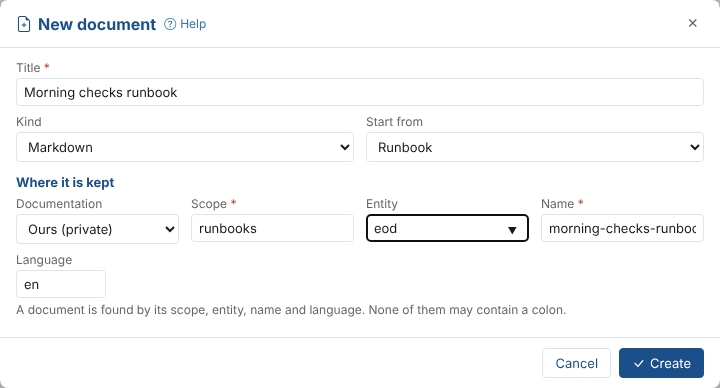
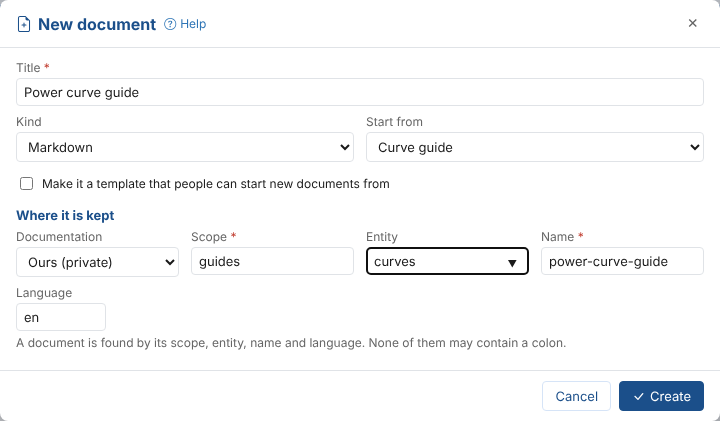
ETL, documentation and home page changes

diff --git a/tools/build-claude-skill-refs.py b/tools/build-claude-skill-refs.py
@@ -1,0 +1,119 @@
+# Regenerates the generated reference files of the OpenDataDSL Claude plugin skills
+# (repository odsl-claude-plugin) from this documentation repository.
+# Usage: python3 tools/build-claude-skill-refs.py docs <odsl-claude-plugin>/plugins/opendatadsl/skills
+import os, re, sys, glob
+DOCS = os.path.abspath(sys.argv[1])
+SKILLS = os.path.abspath(sys.argv[2])
+OUT = None
+BASE = 'https://doc.opendatadsl.com'
+
+def read(p):
+    with open(p, encoding='utf-8') as f:
+        t = f.read().replace('\r', '')
+    if t.startswith('---'):
+        e = t.find('\n---', 3)
+        if e != -1:
+            t = t[e+4:]
+    return t
+
+def resolve(p):
+    t = read(p)
+    d = os.path.dirname(p)
+    imports = {}
+    def imp(m):
+        imports[m.group(1)] = os.path.normpath(os.path.join(d, m.group(2)))
+        return ''
+    t = re.sub(r"^import\s+(\w+)\s+from\s+'([^']+)';?\s*$", imp, t, flags=re.M)
+    for name, f in imports.items():
+        if os.path.exists(f):
+            t = re.sub(r'<' + name + r'\s*/>', lambda m: read(f).strip(), t)
+    return t
+
+# Example values that the Claude plugin marketplace scanner reads as credentials
+SANITIZE = [
+    ('${secret:"ENTSOE_TOKEN"}', '${secret:"YOUR_API_KEY"}'),
+    ('Without it, the KAFKA_SASL_PASSWORD environment variable is used', 'Without it, the password configured for the platform is used'),
+    ('key = ${secret:"nge-blob-key"}\n', '// key holds the storage account key, read from a secret (see practical-notes.md)\n'),
+    ('prices = ${azblob:"https://ngestorage.blob.core.windows.net/prices/daily/ttf.csv","AccountKey=" + key.value}',
+     'options = "AccountKey=" + key.value\nprices = ${azblob:"https://ngestorage.blob.core.windows.net/prices/daily/ttf.csv", options}'),
+    ('files = ${mail:"imap.example.com","user=prices@northgate-energy.com,password=" + pwd + ",sender=settlements@example-broker.com,subject=Daily settlement prices"}',
+     'login = "user=prices@northgate-energy.com,password=" + pwd\nfiles = ${mail:"imap.example.com", login + ",sender=settlements@example-broker.com,subject=Daily settlement prices"}'),
+]
+# Files left out of the plugin: the scanner reads any secret service read as a credential read.
+# Secrets are described in prose in the hand-written practical-notes.md instead.
+SKIP = ['Secret-Service.md', '02a-build-with-claude.md']  # the second is about installing this plugin
+
+def clean(t):
+    t = re.sub(r'### Use a secret\n+```js\n.*?```\n', '', t, flags=re.S)
+    for a, b in SANITIZE:
+        t = t.replace(a, b)
+    t = re.sub(r'\]\(/docs/', '](' + BASE + '/docs/', t)
+    # drop relative links and image refs that will not resolve
+    t = re.sub(r'!\[[^\]]*\]\((?!https?:)[^)]*\)', '', t)
+    t = re.sub(r'\[([^\]]+)\]\((?!https?:|#)[^)]*\)', r'\1', t)
+    t = re.sub(r'</?Tabs[^>]*>', '', t)
+    t = re.sub(r'<TabItem[^>]*label="([^"]+)"[^>]*>', r'**\1:**', t)
+    t = re.sub(r'</TabItem>', '', t)
+    t = re.sub(r'\n{3,}', '\n\n', t)
+    return t.strip() + '\n'
+
+def build(name, title, intro, files):
+    os.makedirs(OUT, exist_ok=True)
+    parts = ['# ' + title, '', intro, '', 'Generated from the OpenDataDSL documentation (' + BASE + '/docs).', '']
+    files = [f for f in files if os.path.basename(f) not in SKIP]
+    for f in files:
+        rel = os.path.relpath(f, DOCS)
+        parts.append('\n---\n\n<!-- source: ' + rel + ' -->\n')
+        parts.append(clean(resolve(f)))
+    text = '\n'.join(parts)
+    if '${secret' in text:
+        sys.exit(name + ': still contains a secret service read, which the plugin marketplace holds for review')
+    with open(os.path.join(OUT, name), 'w', encoding='utf-8', newline='\n') as o:
+        o.write(text)
+    print(name, sum(os.path.getsize(f) for f in files))
+
+OUT = os.path.join(SKILLS, 'odsl-scripting', 'references')
+D = DOCS + '/product/developer'
+O = D + '/odsl'
+def md(pattern, skip=()):
+    return sorted(f for f in glob.glob(pattern) if not os.path.basename(f).startswith('_') and os.path.basename(f) not in skip)
+
+build('commands.md', 'ODSL commands, statements, expressions and conditions',
+      'Syntax and examples for every ODSL command.',
+      [O + '/Commands/' + f for f in ['Commands.md', 'Statements.md', 'control.md', 'data-management.md', 'structured.md', 'Expressions.md', 'Conditions.md']])
+build('functions.md', 'ODSL built-in functions (A to Z)',
+      'Every built-in function with parameters, return type and the data types it works with. Search for "### name(" to find one.',
+      [O + '/functions/AllFunctions.md'])
+build('types.md', 'ODSL variable types: properties and methods',
+      'Generated reference of each built-in variable type, its constructors, properties and methods.',
+      [O + '/types.md'])
+build('variables.md', 'ODSL variable types: guides and examples',
+      'Narrative guide to each variable type, with examples.',
+      md(O + '/Variables/*.md'))
+build('services.md', 'Active variable services',
+      'The ${service:...} syntax and every service a script can read from, search, save to or delete from.',
+      md(D + '/Active Variable Services/*.md'))
+build('calendars.md', 'Calendars, period codes and timeseries ranges', 'Calendar types and how to use them.',
+      md(D + '/Calendars/*.md'))
+build('aggregation-stages.md', 'Aggregation stages', 'MongoDB-style stages for the aggregate command and aggregation pipelines.',
+      md(O + '/Stages/*.md'))
+build('glossary.md', 'ODSL language glossary', 'Cheat sheet of keywords.', [O + '/Language-Glossary.md'])
+build('data-management.md', 'Data management with ODSL',
+      'Transformers, workflows and processes, data modelling with types, versioning, identities, events, queues, monitoring.',
+      md(DOCS + '/topics/data-management/*.md'))
+build('automations.md', 'Automations and automation targets',
+      'What automations are, how to create them in ODSL, and every automation target.',
+      md(DOCS + '/topics/automation/*.md') + md(DOCS + '/topics/automation/targets/*.md'))
+
+# odsl-insights-extensions
+OUT = os.path.join(SKILLS, 'odsl-insights-extensions', 'references')
+B = DOCS + '/extensions/building-extensions'
+build('building-extensions.md', 'Building extensions',
+      'How extensions work, building one with Fusion AI, the manifest, writing pages, insights and policies, publishing, and an HTML components example.',
+      md(B + '/0*.md') + [B + '/odsl.example.md'])
+build('insights.md', 'Insight reports outside extensions',
+      'General, service, item and Excel insights, the report categories that place them in the portal, and the older table and chart templates.',
+      [DOCS + '/topics/Insights/general.md', DOCS + '/topics/Insights/item/creating.md', DOCS + '/topics/Insights/excel/creating.md'])
+build('reports.md', 'Report configurations and report services',
+      'The Report variable (Default, Fixed, Dynamic, Insight and Widget reports), scheduling, and the report and reportconfig services.',
+      [O + '/Variables/Report.md', O + '/Variables/ReportCreator.md'] + [D + '/Active Variable Services/' + f for f in ['Report-Service.md', 'Report-Configuration-Service.md', 'Report-Creator-Service.md']])

diff --git a/docs/extensions/etl/06e-library.md b/docs/extensions/etl/06e-library.md
@@ -1,0 +1,104 @@
+---
+title: The library
+description: Install ready-made data loaders that OpenDataDSL publishes, keep them up to date, and (for OpenDataDSL) publish loaders to the library
+slug: /extensions/etl/library
+sidebar_position: 6.9
+tags: [extension, data loaders, etl, library, install, publish]
+---
+
+# The library
+
+Many clients load the same public data: exchange rates, gas storage, day-ahead power prices. OpenDataDSL builds and checks loaders for these and publishes them in the **library**. Install one into your tenant and it is a data loader of your own: set its secrets, look over its steps, and deploy it.
+
+---
+
+## Opening the library
+
+Select **Library** at the top of the list of data loaders.
+
+![The data loader library, with installed loaders and an update](/img/extensions/etl/library.png)
+
+Each card shows the loader's name and code, what it loads, the kind of source, its category and tags, and the library version with the date it was published. Type in **Find a loader** to search the names, descriptions and tags, and select a category to see only those.
+
+A card is marked **Installed** when you have a loader installed from it, with links to your copies, and **Update available** when a newer version has been published since you installed it.
+
+**Details** shows the loader's settings and what installing it brings.
+
+---
+
+## Installing a loader
+
+Select **Install** on the card. Give the loader a name and a code; the code is the library's unless you already have a loader with it.
+
+![Installing a loader from the library](/img/extensions/etl/library-install.png)
+
+Installing saves a new data loader in your tenant. It also brings:
+
+- **Types** the loader uses that are not standard platform types, such as its event type. A type is only made if you do not have one with that name; yours is kept.
+- The **data series set** of a spreadsheet upload loader, if you do not have it.
+- Its **documentation**, if it was published with it.
+- A **sample** of the source, if it was published with one, so you can look at the mapping before reading the source yourself.
+
+Nothing is deployed or run. The loader opens, marked **library version** with the version you installed. Then:
+
+1. On the **Extract** step, set the values of its secrets, such as an API key. The library never holds secret values, only their names. A secret of the loader's own is named after your code, such as `etl_entsoe_da_prices_token`.
+2. Read the source with **Extract**, and check each step.
+3. Set its stage and deploy it on the **Deploy and run** step.
+
+Your copy is yours: change any step, as with a loader you built. Select **Install again** to install a second copy under another code, for example to load a second set of variables on a different schedule.
+
+---
+
+## Updating a loader
+
+When OpenDataDSL publishes a new version, the card shows **Update available**. Select **Update**, and choose the copy to update if you have more than one.
+
+![Updating a loader from the library](/img/extensions/etl/library-update.png)
+
+The loader's settings are replaced by those of the new version. These are kept:
+
+- its name, stage, schedule and alerts;
+- the secret records it uses, and the values of its variables;
+- what is deployed.
+
+Changes you made to other settings are replaced. The update is saved as a new [version](/docs/extensions/etl/running#versions) of the loader, so **Versions** can show what changed and restore your copy. If the loader is deployed, deploy it again to use the new settings.
+
+Types, a series set and documents you already have are never changed by an update; new documents are added.
+
+---
+
+## Publishing to the library (OpenDataDSL)
+
+This part is for OpenDataDSL staff. **Publish to library** is shown at the top of a loader only to OpenDataDSL users working in the OpenDataDSL tenant, not when working as a client.
+
+![The Publish to library button](/img/extensions/etl/library-publish-button.png)
+
+Save the loader first, then select **Publish to library**.
+
+![Publishing a loader to the library](/img/extensions/etl/library-publish.png)
+
+| Setting | What it is |
+|-|-|
+| **Name in the library** | The name on the card |
+| **Description** | What it loads, from where, and what a client needs, such as an account or an API key |
+| **Category** | Groups the cards, such as Power, Gas or FX |
+| **Tags** | Words to find it by, separated by commas |
+| **Include its documentation** | Publishes the loader's [documentation](/docs/extensions/etl/documentation); installing it adds the documents |
+| **Include the sample** | Publishes the sample. It is data read from the source: include it only if every client may see it |
+
+The loader is published as `#<CODE>`. Publishing it again makes the next library version, and clients who installed an earlier one see **Update available**.
+
+What is published: the loader's settings, the names of its secrets and variables, its schedule as a suggestion, and the types it uses that are your own (a type that cannot be found is named in the message and left out). What is left out: the deployment, the stage, the uploads and items built, and every secret value.
+
+On a card, the bin takes the loader out of the library, every version. Loaders clients have installed stay.
+
+---
+
+## Where the library is kept
+
+| What | Service and source | Id |
+|-|-|-|
+| A library entry | object, the custom collection `etl_loaders` in the public database (`object/v1/public.etl_loaders`) | `#<CODE>` |
+| An installed loader | object, custom collection `etl_loaders` | your code; `installedFrom` records the entry and its version |
+
+Everyone can read the public database. Only users with a security policy that lets them write to the public source, which OpenDataDSL has, can publish.

diff --git a/docs/extensions/documentation-manager/03-documents.md b/docs/extensions/documentation-manager/03-documents.md
@@ -30,20 +30,37 @@ Choose **New document** and fill in:
 |-|-|
 | **Title** | What the document is called, for example *Morning checks runbook* |
 | **Kind** | Markdown, web page link or JSON with a template |
-| **Start from** | For markdown: a blank page, or a starter with headings for notes, meeting notes, requirements, a design, a runbook or evidence |
+| **Start from** | For markdown: a blank page, or a starter with headings for notes, meeting notes, requirements, a design, a runbook or evidence. Your own [templates](#templates) of the chosen kind are listed too |
 | **Documentation** | Where to keep it: normally **Ours (private)** |
 | **Scope** | The topic, for example `runbooks`. The scopes already in use are offered |
 | **Entity** | Optional: what it is about within the scope, for example `eod`. The entities already in the scope are offered |
 | **Name** | Filled in from the title; change it if you like |
 | **Language** | `en` unless you are writing in another language |
 
-None of scope, entity and name may contain a colon, and the screen tells you when a document with the same key and language is already there. **Create** opens the new document in the editor; it is kept once you save it.
+None of scope, entity and name may contain a colon, and the screen tells you when a document with the same key and language is already there. When you have chosen a scope and entity in the filters, the new document starts there. **Create** opens the new document in the editor; it is kept once you save it.
 
-![Starting a new runbook](/img/extensions/documentation-manager/new-document.png)
+![Starting a new curve guide from a template](/img/extensions/documentation-manager/new-document.png)
 
 :::tip Documents about a record
 To write a document that shows as a documentation link on a master data record, use the scope `object` and the record's id as the entity, for example `object` : `ICE.NDEX.TTF` : `about`. The Data Explorer then lists it on the record's **Documentation** tab.
 :::
+
+---
+
+## Templates
+
+A template is a document that people start new documents from: the layout of a curve guide, an incident report or a vendor meeting, with the headings your team always uses. Templates are ordinary documents kept in the scope `documentation` with the entity `template`, so you read, edit, version and delete them like any other document.
+
+There are two ways to make one:
+
+- Choose **New document**, tick **Make it a template that people can start new documents from**, and write it. The scope and entity are set for you.
+- Open a document you want to reuse and choose **Save as template**. Give the template a name: a copy is saved as a template and the document itself is not changed.
+
+When anyone chooses **New document**, **Start from** lists the templates of the chosen kind: **Our templates** (your own), and any **Common templates** and **OpenDataDSL templates** shared with every client. The new document starts with the template's text, tags and (for links and JSON) its settings, and the template's first heading is replaced by the new document's title.
+
+**Templates**, under the list of documents, shows your templates.
+
+![The templates for new documents](/img/extensions/documentation-manager/templates.png)
 
 ---
 

diff --git a/docs/extensions/documentation-manager/02-finding.md b/docs/extensions/documentation-manager/02-finding.md
@@ -17,13 +17,19 @@ Open **Manage > Documentation**. The screen lists your own documentation, groupe
 | **Documentation** | **Ours (private)** is your own documentation. **Common** and **Public** are shared with every client, for example the public guides to OpenDataDSL data |
 | **Find** | Shows the documents whose title, name, scope, entity or tags contain the text |
 | **Search the text too** | Looks for the text inside the documents as well. The search runs on the platform, so it finds words anywhere in a document |
-| **Scope**, **Kind**, **Language** | Narrow the list to one scope, one kind of document (markdown, web page link or JSON) or one language |
+| **Scope** | Narrow the list to one scope |
+| **Entity** | Comes on once you choose a scope: narrow the list to one entity of that scope, such as the documents about one record. Each entity shows how many documents it has; **(no entity)** is the documents of the scope that have none |
+| **Kind**, **Language** | Narrow the list to one kind of document (markdown, web page link or JSON) or one language |
 
 Priya wants to know which documents mention the Molecule user. She ticks **Search the text too** and types `molecule_user`: only the onboarding design document contains it.
 
 ![Searching the text of the documents](/img/extensions/documentation-manager/find.png)
 
-Click a scope to close or open its group. With many scopes, the groups start closed; **Open all** and **Close all** open or close every group. **CSV** downloads the documents in the list, with their key, language, title, tags, version and when they were saved.
+Priya looks after the curve guides. She chooses the scope `guides`, then the entity `curves`, and sees just the guides about curves.
+
+![The documents of one scope and entity](/img/extensions/documentation-manager/entity-filter.png)
+
+Click a scope to close or open its group. With many scopes, the groups start closed; **Open all** and **Close all** open or close every group. **Templates** shows your templates for new documents (see [Templates](/docs/extensions/documentation-manager/documents#templates)). **CSV** downloads the documents in the list, with their key, language, title, tags, version and when they were saved.
 
 Scopes shown with a link icon, such as `object`, are platform services: their documents are about a record, for example the master data record `ICE.NDEX.TTF`, and show as a documentation link on that record in the Data Explorer.
 

diff --git a/docs/extensions/documentation-manager/01-overview.md b/docs/extensions/documentation-manager/01-overview.md
@@ -32,6 +32,7 @@ Throughout these pages we follow Northgate Energy, a fictional gas and power tra
 | Key | Scope, entity and name together, written `scope:entity:name`. With the language, the key identifies a document |
 | Language | The language the document is written in (`en`, `de`, `fr` ...). A document can have a version in each language |
 | Title | The name shown in lists. When a document has no title, its name is shown |
+| Template | A document people start new documents from, kept in the scope `documentation` with the entity `template` |
 | Version | Every save keeps the previous text as an older version you can look at, compare and restore |
 | Documentation | Where a document is kept: **Ours** (your own, private), **Common** or **Public** (shared with every client) |
 
@@ -42,7 +43,7 @@ Throughout these pages we follow Northgate Energy, a fictional gas and power tra
 | Part of the screen | What it is for |
 |-|-|
 | Summary cards | How many documents, scopes and languages there are, how many are about platform records, and how many changed in the last 30 days |
-| Filters | Choose the documentation, find by title, name, scope, entity or tag, search the text inside the documents, and narrow to a scope, kind or language |
+| Filters | Choose the documentation, find by title, name, scope, entity or tag, search the text inside the documents, and narrow to a scope (and then one of its entities), kind or language |
 | **Documents** list | The documents grouped by scope, with the newest saves easy to spot |
 | The open document | The document as the portal shows it, with its key, language versions, tags and when it was saved, and the buttons to edit, see versions, copy or move, download and delete |
 | Home page tasks | **Find documentation** and **Write a document** |
@@ -54,5 +55,5 @@ The extension adds **Documentation** to the **Manage** menu.
 ## Where next
 
 - [Finding and reading](/docs/extensions/documentation-manager/finding): find a document and read it
-- [Writing and changing documents](/docs/extensions/documentation-manager/documents): edit, create, translate, copy and move documents, versions and deleting
+- [Writing and changing documents](/docs/extensions/documentation-manager/documents): edit, create, templates, translate, copy and move documents, versions and deleting
 - [Reference](/docs/extensions/documentation-manager/reference): how documents are kept, permissions and troubleshooting

diff --git a/docs/extensions/etl/01-overview.md b/docs/extensions/etl/01-overview.md
@@ -39,6 +39,7 @@ Throughout these pages we follow Northgate Energy, a fictional gas and power tra
 | **Curves and series** | Event timeseries, event curves and event options made once from the events, kept on the same master data record and built by the platform whenever they are read. |
 | **Deploying** | Saves a workflow made of the standard ETL actions and a process that runs it, which you can run now or on a schedule. |
 | **Spreadsheet upload** | A loader for a workbook loaded by hand, never scheduled. You describe its layout once (dataset information, a row per record, the values by date), then drop each new workbook on the page to make its records, events and series. |
+| **Library** | Ready-made data loaders published by OpenDataDSL. Install one into your tenant, set its secrets and deploy it; update it when a new version is published. |
 | **Documentation** | Notes about a loader for the people who look after it, such as an About page made from its settings, kept in the documentation service. |
 | **Calculated field** | A field worked out from others with `+ - * /`, such as `real_price = input_price * ConvertedFactor`. |
 
@@ -74,6 +75,7 @@ Each tour shows once, on any computer you use. Select **Tour**, next to **Help**
 - [Deploying, running and scheduling](/docs/extensions/etl/running): runs, run reports and alerts.
 - [Curves and series](/docs/extensions/etl/curves-and-series): event timeseries, curves and options from the events.
 - [Spreadsheet uploads](/docs/extensions/etl/uploads): load a workbook by hand, its layout described once.
+- [The library](/docs/extensions/etl/library): install ready-made loaders published by OpenDataDSL.
 - [Documentation](/docs/extensions/etl/documentation): keep notes about each loader, starting with an About page.
 - [Fusion AI](/docs/extensions/etl/fusion-ai): let Fusion AI propose the event type and the mapping.
 - [The ETL actions](/docs/extensions/etl/actions): the standard actions, also usable in your own workflows.

diff --git a/docs/extensions/etl/09-reference.md b/docs/extensions/etl/09-reference.md
@@ -25,6 +25,7 @@ tags: [extension, data loaders, etl, reference, troubleshooting]
 | Secret values | secret | `etl_<code>_<name>` by default |
 | Event timeseries, curves and options | data, private (on the record) | `RECORD:ID`, e.g. `NGE.BROKERS:SETTLE_TTF_FRONT` |
 | Smart timeseries made by a set of series | data, private (on the record) | `RECORD:ID`, e.g. `EIA.STOCKS.MCRSTUS1:PRICE` |
+| A library entry | object, the custom collection `etl_loaders` in the public database (`public.etl_loaders`) | `#<CODE>` |
 | A loader's documents | documentation, private | scope `odsl.etl`, entity the code, name `about` or one made from the title |
 | The list of a loader's documents | object, custom collection `etl_loader_docs` | the code |
 | Sets of series | object, custom collection `etl_series_sets` | the set code, e.g. `SOURCE_CONVERSIONS` |
@@ -141,4 +142,6 @@ Each stored report has `loader`, `name`, `target`, `last` (the latest run) and `
 | **This platform does not have the ETL service (etl/v1) deployed yet** | The platform version in use has no `etl` service route, so the page cannot be shown. Type the table selector, or ask your administrator to update the platform. |
 | **Could not read the list of documents** | The custom collection `etl_loader_docs` could not be read: try again, or check you can read the object service. |
 | **The documentation was not deleted** | The loader is deleted, but its documents are not: delete them in the Documentation Manager (scope `odsl.etl`). |
+| **Could not publish ... (publishing needs write access to the public library)** | Only users with a security policy that writes to the public source can publish: OpenDataDSL. |
+| **Could not read the library** | The public custom collection `etl_loaders` could not be read: try again. |
 | **changed** in the list | The loader was changed after it was deployed: select **Deploy again**. |

diff --git a/docs/extensions/documentation-manager/04-reference.md b/docs/extensions/documentation-manager/04-reference.md
@@ -21,6 +21,8 @@ Every document is a record in the platform's documentation service. A record has
 
 The same documents can be read in ODSL, for example `d = ${documentation:"private"/"guides:curves:gas-curve-build"}`, and through the REST API (`documentation/v1/private/guides:curves:gas-curve-build`).
 
+Templates for new documents are documents with the scope `documentation` and the entity `template`, in any of the three documentations.
+
 When the scope is the name of a platform service, such as `object`, and the entity is the id of one of its records, saving the document adds a documentation link named after the document to that record.
 
 ## Who can read and change documents
@@ -37,9 +39,11 @@ Home page tasks and other extensions can open the screen with these properties:
 | `Q` | Text to find |
 | `CONTENT` | `true` to search the text of the documents too |
 | `SCOPE` | Show only this scope |
+| `ENTITY` | With `SCOPE`: show only this entity of the scope |
+| `TEMPLATES` | `true` to show your templates |
 | `ID` | Open the document with this id |
 | `SCOPE`, `ENTITY`, `NAME`, `LANGUAGE` | Open the document with this key (and language) |
-| `ACTION` | `new` to start a new document, with `SCOPE`, `ENTITY`, `NAME` and `TITLE` filled in |
+| `ACTION` | `new` to start a new document, with `SCOPE`, `ENTITY`, `NAME` and `TITLE` filled in. Add `TEMPLATE` `true` to start a new template |
 
 ## Troubleshooting
 

diff --git a/docs/extensions/home/02-using.md b/docs/extensions/home/02-using.md
@@ -82,6 +82,8 @@ Choose a task to open the screen that does the job:
 - Some open a screen of the portal, such as **Data**.
 - An extension can also open a web page, in a new browser tab.
 
+The bottom right of each task says where it goes, for example **Smart Data > New** or **Information > Data**. A task that opens a web page shows the site's name and an arrow pointing out of the box. Rest the pointer on a task to read it in full, for example **Opens Smart Data, ready to create a new one**.
+
 The task opens in the portal like any menu item, with the menu showing where you are. If you cannot use the screen it opens, for example its extension is not installed in this environment or you do not have access to it, the page tells you instead.
 
 :::tip
